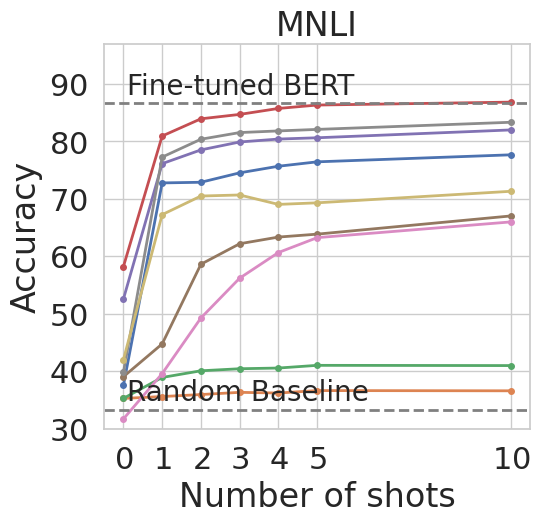
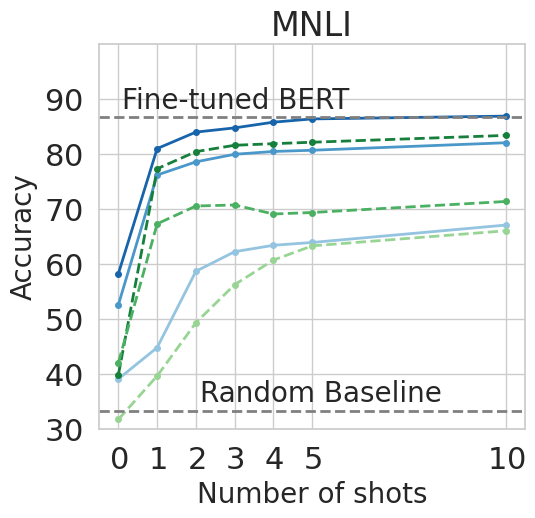
Fix figure 1

Changed region(s): [[0.0, 0.0, 0.9869, 0.9884]]

diff --git a/results.tex b/results.tex
@@ -7,37 +7,37 @@ Now we present our results, focussing in particular on whether NLI benchmarks pr
 
 \begin{figure*}[t]
     \begin{subfigure}[b]{\textwidth}
-        \centering
-        \includegraphics[width=0.8\textwidth]{figures/legend}
-        \vspace{-2mm}
+        \hspace{5mm}
+        \includegraphics[width=0.95\textwidth]{figures/legend}
+        \vspace{-3mm}
     \end{subfigure}\\
     \begin{subfigure}[b]{0.217\textwidth}
     \centering
-    \includegraphics[height=3.2cm]{figures/anli}
+    \includegraphics[height=3.45cm]{figures/anli}
     \caption{ANLI}
     \end{subfigure}
     \label{fig:anli}
     \begin{subfigure}[b]{0.19\textwidth}
     \centering
-    \includegraphics[height=3.2cm, trim=25mm 0 0 0, clip]{figures/hansnli}
+    \includegraphics[height=3.45cm, trim=25mm 0 0 0, clip]{figures/hansnli}
     \caption{HANS}
     \label{fig:hans}
     \end{subfigure}
     \begin{subfigure}[b]{0.19\textwidth}
     \centering
-    \includegraphics[height=3.2cm, trim=25mm 0 0 0, clip]{figures/mnli_matched}
+    \includegraphics[height=3.45cm, trim=25mm 0 0 0, clip]{figures/mnli_matched}
     \caption{MNLI}
     \label{fig:mnli}
     \end{subfigure}
     \begin{subfigure}[b]{0.19\textwidth}
     \centering
-    \includegraphics[height=3.2cm, trim=25mm 0 0 0, clip]{figures/snli}
+    \includegraphics[height=3.45cm, trim=25mm 0 0 0, clip]{figures/snli}
     \caption{SNLI}
     \label{fig:snli}
     \end{subfigure}
     \begin{subfigure}[b]{0.19\textwidth}
     \centering
-    \includegraphics[height=3.2cm, trim=25mm 0 0 0, clip]{figures/abductivenli}
+    \includegraphics[height=3.45cm, trim=25mm 0 0 0, clip]{figures/abductivenli}
     \caption{$\alpha$NLI}
     \label{fig:alphanli}
     \end{subfigure}
